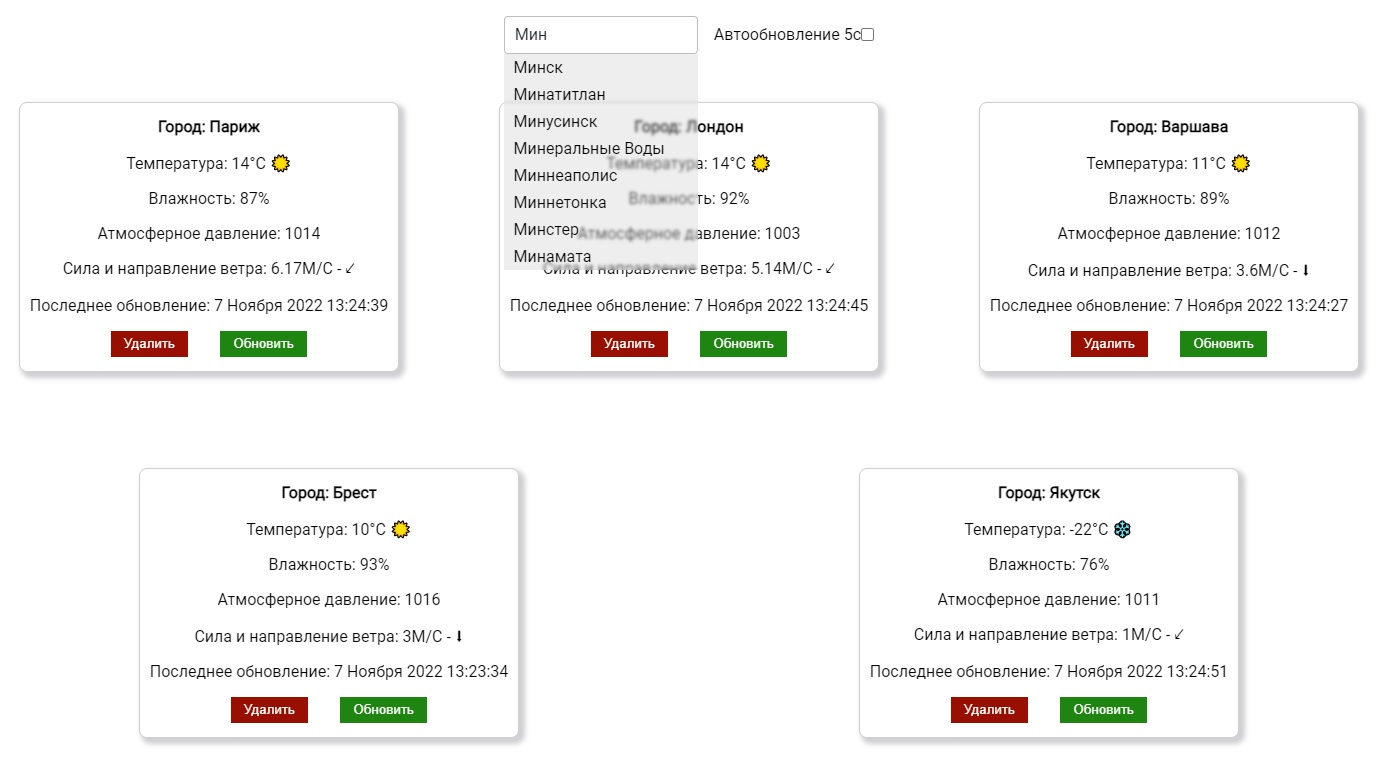
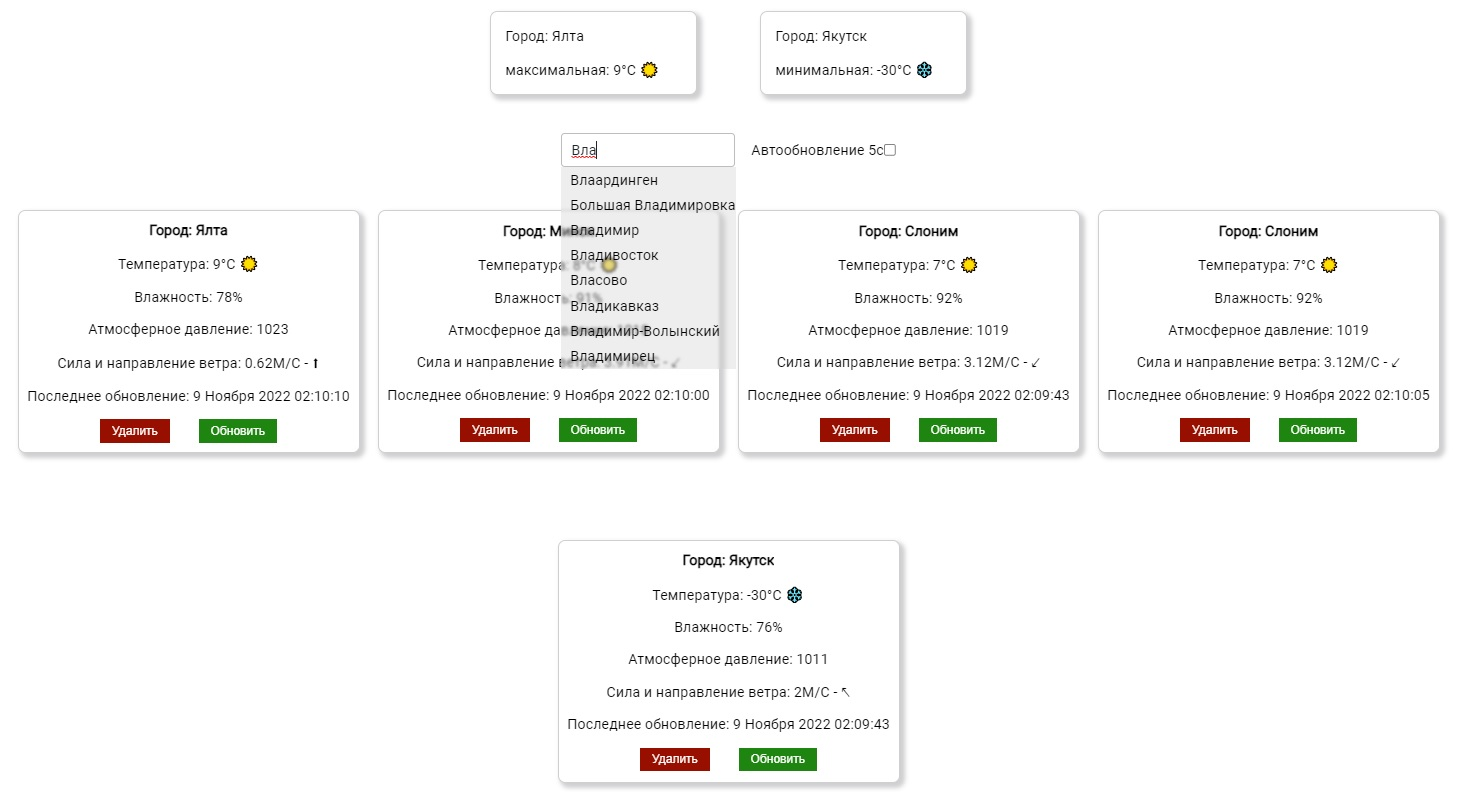
new preview

diff --git a/src/App.js b/src/App.js
@@ -10,21 +10,20 @@ const App = () => {
 
   /* assign a value to arr */
   const [arr, setArr] = useState(JSON.parse(localStorage.getItem(`arr`)) || []);
-  /* const [tempArr, setTempArr] = useState(JSON.parse(localStorage.getItem(`arr`)) || []) */
   const [max, setMax] = useState('')
   const [min, setMin] = useState('')
-
 
   const addWeather = async (e) => {
     const cityName = e;
     const weatherData = await gettingWeather(cityName); /* get weather data for the city */
     arr.push(weatherData); /* add data to arr */
-    /* arr.sort((a, b) => b.tempRange - a.tempRange); */ /* sort by temperature for the widget */
+    arr.sort((a, b) => b.tempRange - a.tempRange); /* sort by temperature for the widget */
     setArr([...arr]);
     setWeatherLocalStorage(arr);
     tempMaxMin()
   };
 
+  /* maximum and minimum temperatures */
   const tempMaxMin = () => {
     let tempArr = arr
       tempArr.sort((a, b) => b.tempRange - a.tempRange);
@@ -32,17 +31,13 @@ const App = () => {
       setMin(tempArr.slice(-1)[0])
   }
 
-
+  /* displaying the widget when rendering */
   useEffect(() => {
-    if (arr.length == 0) {
-        console.log(`пусто`)
-    } else {
+    if (arr.length !== 0) {
       tempMaxMin()
     }
   });
   
-  
-
   const gettingWeather = async (cityName) => {
     const city = cityName;
     let weatherIcon = "";
@@ -220,6 +215,8 @@ const App = () => {
 
   /* updating all weather cards */
   const refreshAll = () => {
+    console.log(`начало`)
+    console.log(arr)
     const updateArrData = arr.map((item) => {
       const weather = gettingWeather(item.city);
       return weather;
@@ -227,6 +224,8 @@ const App = () => {
     Promise.all(updateArrData).then((data) => {
       setArr(data);
       setWeatherLocalStorage(data);
+      console.log(`конец`)
+      console.log(arr)
     });
   };
 

diff --git a/src/components/widget/widget.js b/src/components/widget/widget.js
@@ -1,24 +1,23 @@
 import React from "react";
 import "./widget.css";
 
-const Widget = (props) => { 
-  console.log(props)
-  const max = props.max
-  const min = props.min
+const Widget = (props) => {
+  const max = props.max;
+  const min = props.min;
 
-    return (
-      <div className="widget">
-        <div className="tempMaxMinCard">
-          <p>Город: {max.city}</p> 
-          <p>максимальная: {max.temp}</p> 
-        </div>
-
-        <div className="tempMaxMinCard">
-          <p>Город: {min.city}</p> 
-          <p>минимальная: {min.temp}</p> 
-        </div>
+  return (
+    <div className="widget">
+      <div className="tempMaxMinCard">
+        <p>Город: {max.city}</p>
+        <p>максимальная: {max.temp}</p>
       </div>
-    );
-  };
-  
-  export default Widget;
+
+      <div className="tempMaxMinCard">
+        <p>Город: {min.city}</p>
+        <p>минимальная: {min.temp}</p>
+      </div>
+    </div>
+  );
+};
+
+export default Widget;
